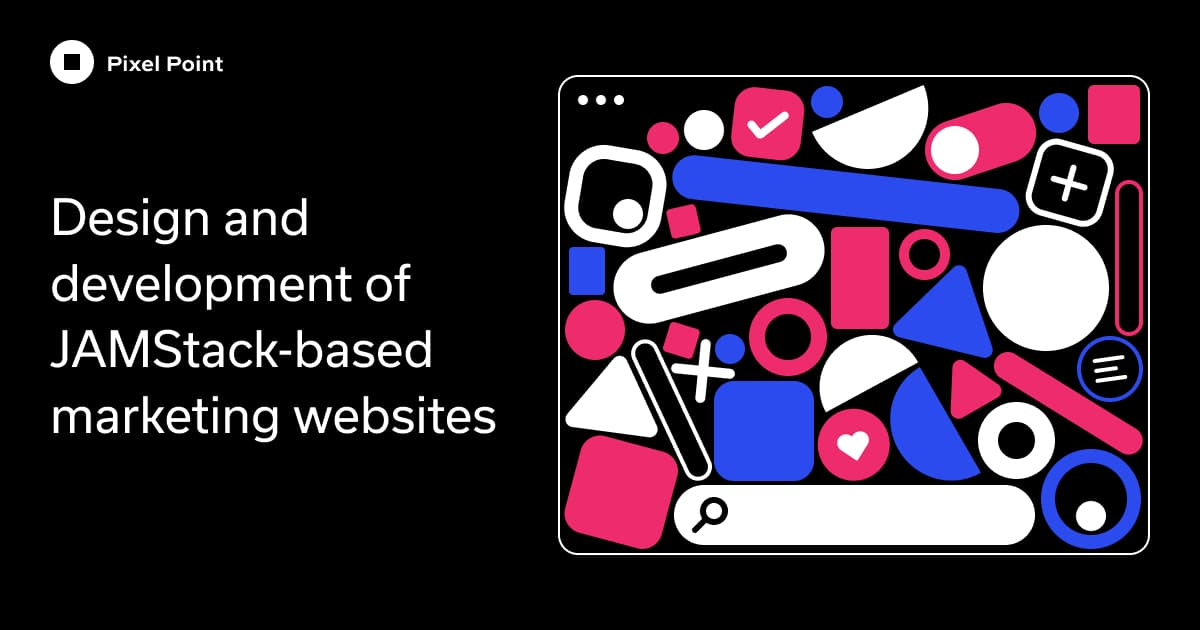
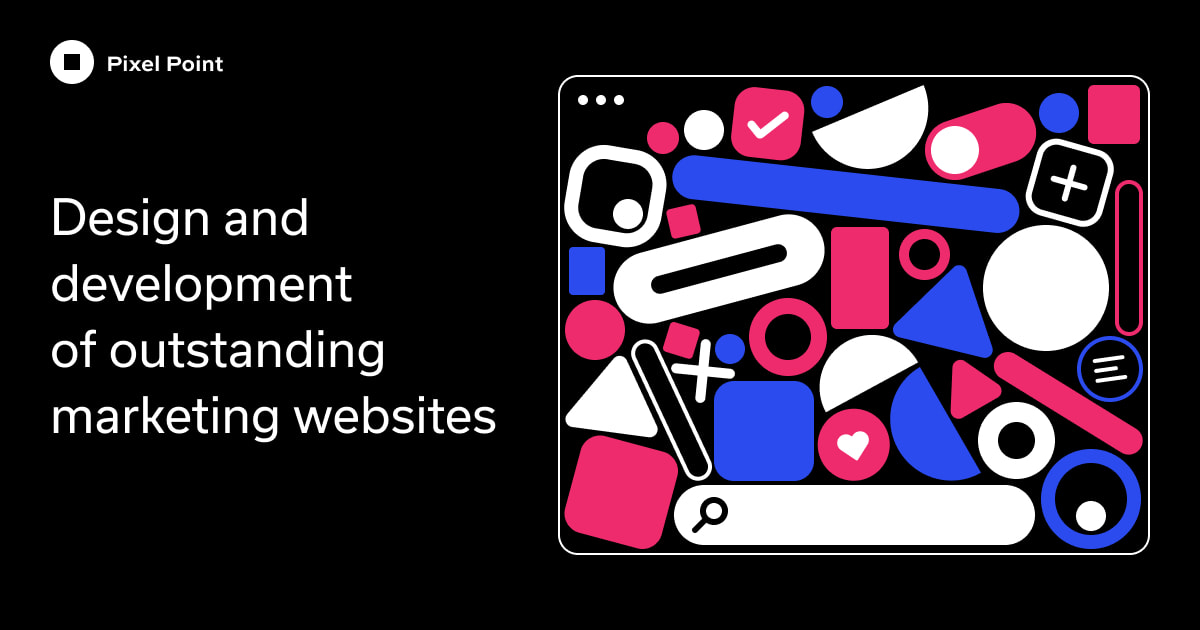
chore: update copy and social preview

diff --git a/src/components/pages/services-web-development/hero/hero.jsx b/src/components/pages/services-web-development/hero/hero.jsx
@@ -31,8 +31,8 @@ const Hero = () => {
       ref={wrapperRef}
     >
       <div className="container">
-        <h1 className="with-text-highlight-red mx-auto max-w-[700px] text-center text-6xl font-normal leading-snug lg:max-w-[520px] lg:text-[42px] md:max-w-[450px] md:text-4xl sm:max-w-[300px] sm:text-2xl">
-          Bring the power of <span>the modern stack</span> to your project
+        <h1 className="with-text-highlight-red mx-auto max-w-[1000px] text-center text-6xl font-normal leading-snug lg:max-w-[520px] lg:text-[42px] md:max-w-[450px] md:text-4xl sm:max-w-[300px] sm:text-2xl">
+          You develop your product. <span>We develop your site.</span>
         </h1>
         <ImagePlaceholder
           className="mx-auto mt-16 max-w-[1096px] lg:mt-14 md:mt-12 sm:mt-6"
